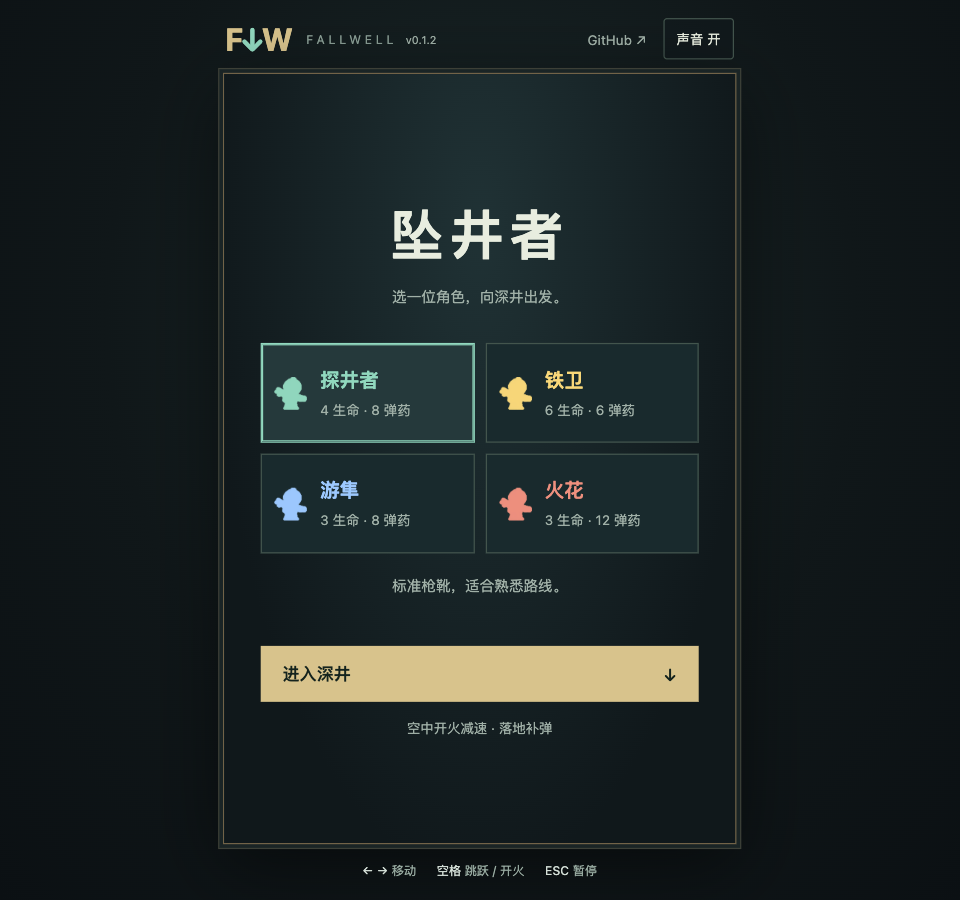
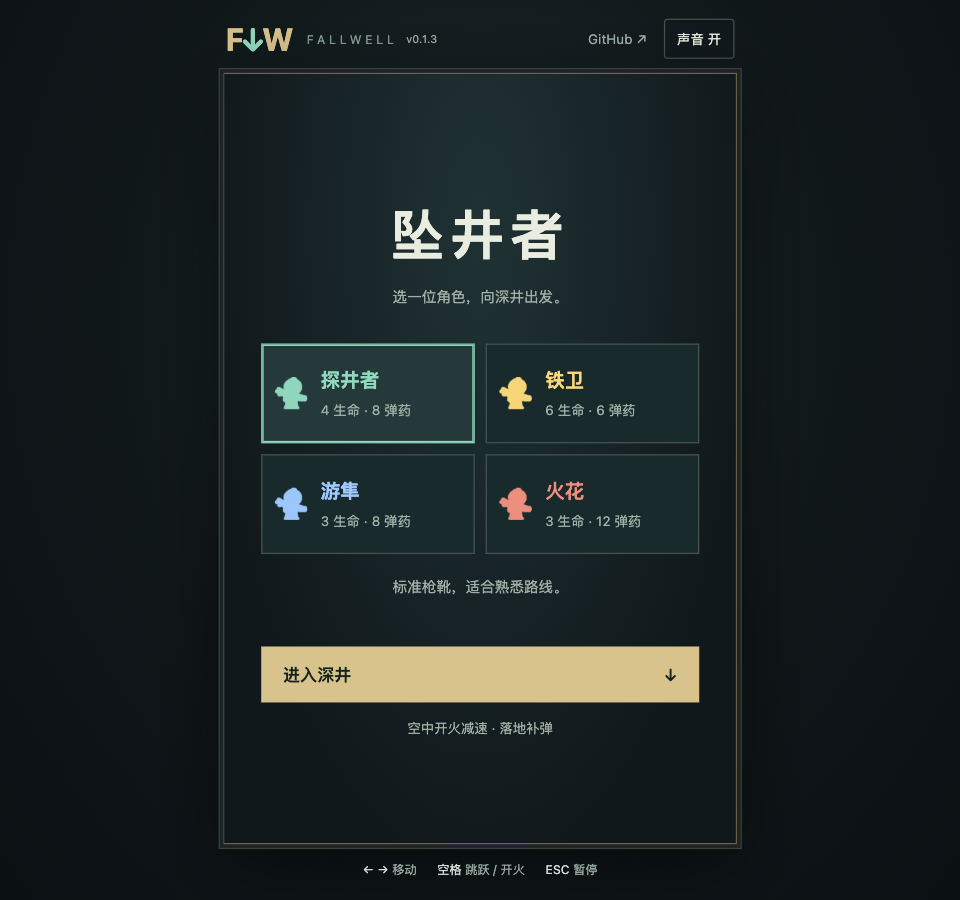
fix: restore canonical Fallwell subdomain and root-path build

diff --git a/vite.config.ts b/vite.config.ts
@@ -5,6 +5,6 @@ const { version } = JSON.parse(
   readFileSync(new URL("./package.json", import.meta.url), "utf8"),
 );
 export default defineConfig({
-  base: "/fallwell/",
+  base: "/",
   define: { __APP_VERSION__: JSON.stringify(`v${version}`) },
 });

diff --git a/PUBLISHING_STATUS.md b/PUBLISHING_STATUS.md
@@ -1,34 +1,32 @@
 # 已发布项目检查补齐 · 2026-10-02
 
-## 已完成并验证
+## 正式地址
+
+唯一正式目标为 https://fallwell.xiaosang.cc/，游戏运行在根路径 /。
+2026-10-02 已撤销误配的 xiaosang.cc/fallwell 与 xiaosang.cc/fallwell/* 两条路由，API 回读确认删除；其他项目绑定未改动。
+Wrangler 配置、README、二维码、待发布作品集及 Profile 材料统一使用正式子域名，不再采用主域名子路径。
+
+## 当前阻碍
+
+- Cloudflare API 回读：xiaosang.cc 的 Workers Custom Domains 数量为 100，fallwell 无绑定；新增绑定被错误 100122 拒绝。
+- 公共 DNS over HTTPS 查询正式子域名返回 NXDOMAIN；系统 DNS 的代理 fake IP 不作为上线证据。
+- 同一子域名的 Worker Route 方案需要代理 DNS 记录；当前 Wrangler OAuth 的 DNS Records API 返回 403，无 DNS 写入权限。
+- Cloudflare 浏览器控制台未登录，正在等待用户完成登录，以继续配置同一正式子域名。
+- 正式地址尚未验证，GitHub Homepage 与作品集/Profile 发布保持待完成；不发布故障 Demo。
+
+## 已准备与独立完成项
 
 - GitHub：https://github.com/holynova/fallwell；公开仓库，唯一主分支 main。
-- 应用源码提交：8a0d25bf537a12a171d1f69654cb5d3d90175e54；应用版本 v0.1.1。
-- 复用既有 Cloudflare Worker：fallwell，账户 ef7863c4de93e71c3496f940c8ab4865。
-- 已上线并验证：https://fallwell.holy-nova.workers.dev/。
-- Cloudflare deployment：58945126-0572-4fe4-a293-63e594bfd9ca。
-- Cloudflare version：eae7c91d-b0b2-46a1-8c8b-7a6687739e1c。
-- 页面增加可见 v0.1.1、GitHub 源码入口和统一 Umami 脚本。
-- README 双语正文通过校验；截图为 960×900 的生产预览实机画面。
-- 二维码已独立解码确认指向 https://fallwell.xiaosang.cc/，该地址尚不可用。
-- 33 项游戏测试、生产构建、Wrangler dry-run 与版本校验通过。
-- 23 个线上产物均为 HTTP 200，哈希与本地 dist 一致。
+- 根路径修复版本 v0.1.3；保留可见版本、GitHub 源码入口与统一 Umami。
+- 33 项游戏逻辑测试、生产构建、Wrangler dry-run 和版本校验通过。
+- README 双语说明及截图文件检查通过，二维码独立解码确认为 https://fallwell.xiaosang.cc/。
+- 正式发布技能已增加强制子域名与根路径约束；额度、权限或 TLS 阻碍不得擅自改变正式地址，“继续”不代表同意换地址。
+- 既有 workers.dev 仅作为临时访问与修复验证地址，不替代正式 Demo：https://fallwell.holy-nova.workers.dev/。
 
-## 阻塞与待完成
+## 待发布材料
 
-- fallwell.xiaosang.cc 未创建：Cloudflare 错误 100122，xiaosang.cc 已达到每个 zone 100 个 Workers Custom Domains 的上限；API 回读确认数量为 100。
-- 同址 Worker Route 需要代理 DNS 记录；当前 OAuth 无法管理 DNS，DNS Records API 返回 403。
-- 正式 Demo 地址等待选择：xiaosang.cc/fallwell/；等待子域名配额；或明确授权把现有 workers.dev 地址作为作品集例外。
-- GitHub Homepage 尚未设置，README 中子域名标记为待验证。
-- 作品集 master 的 FALLWELL 条目与截图已准备，但尚未提交、推送或重新部署；线上仍为 90 个条目。
-- GitHub Profile main 的 FALLWELL 行与截图已准备，但尚未提交、推送。
+- 作品集：/Users/sym/Documents/Codex/2026-09-30/ga/work/publish-20261002/portfolio，唯一数据源 master。
+- Profile：/Users/sym/Documents/Codex/2026-09-30/ga/work/publish-20261002/profile，main。
 
-准备工作区：
-- 作品集：/Users/sym/Documents/Codex/2026-09-30/ga/work/publish-20261002/portfolio
-- Profile：/Users/sym/Documents/Codex/2026-09-30/ga/work/publish-20261002/profile
-
-## 继续发布
-
-确认正式地址后，按所选地址调整 Wrangler/链接/二维码，验证项目 HTTPS 与核心功能；设置 GitHub Homepage；提交作品集 master，并单独手动部署 xiaosang-portfolio，再回读 repos.json 与卡片；提交 Profile main 并验证。
-
-仅更新 README、截图或发布记录时不重新部署游戏。没有新增 Cloudflare 自动部署工作流或发布分支；原作品集及 Profile checkout 的修改均被保留。
+正式子域名 HTTPS 与核心功能验证通过后，再设置 GitHub Homepage、提交推送作品集并独立手动部署 xiaosang-portfolio、回读 JSON 与卡片，然后发布 Profile。
+最终部署编号与线上验证结果记录在 DEPLOYMENT.md。

diff --git a/DEPLOYMENT.md b/DEPLOYMENT.md
@@ -1,23 +1,13 @@
-# 最新发布状态 · 2026-10-02
+# 发布 · 2026-10-02
 
-- 应用 v0.1.1 已从 main 提交 8a0d25bf537a12a171d1f69654cb5d3d90175e54 手动发布到既有 Worker fallwell。
-- 可用地址：https://fallwell.holy-nova.workers.dev/。
-- Version ID：eae7c91d-b0b2-46a1-8c8b-7a6687739e1c。
-- Deployment ID：58945126-0572-4fe4-a293-63e594bfd9ca。
-- 自定义域名绑定因 xiaosang.cc 达到 100 个配额上限失败（100122）；当前 route 配置保留为待完成目标，重跑部署仍会在域名绑定步骤报错。
-- 正式地址及作品集发布待确定，完整状态见 PUBLISHING_STATUS.md。
-
----
-
-# 发布
-
-- 公网地址：https://fallwell.holy-nova.workers.dev
-- Cloudflare Worker：fallwell
-- 版本：eb26b0dd-6c48-4a67-a90e-7a08973f9b2d
-- 发布日期：2026-10-01
-- 发布内容：Vite 生产构建目录 dist，静态资源托管，无后端服务。
-
-后续更新：运行 `npm test`，然后 `npm run deploy`。发布配置在 wrangler.jsonc，Wrangler 使用本机已有登录。
+- 正式地址：https://fallwell.xiaosang.cc/，绑定待完成，不能作为已上线地址。
+- 临时访问：https://fallwell.holy-nova.workers.dev/。
+- Worker：fallwell；项目唯一源码分支 main。
+- v0.1.3 已恢复根路径构建，移除 /fallwell/ 路径适配 Worker。
+- 误配的主域名两条路由已删除并回读验证。
+- Custom Domains 达到 100 个配额上限；同址 Worker Route 需要 DNS 写入权限，当前控制台待登录。
+- 发布配置 wrangler.jsonc 保留正式子域名目标；独立修复既有 Worker 时使用从此配置生成的临时无域名绑定配置，不改变正式地址。
+- 本次线上版本与源码 SHA 待修复部署后补录；完整检查状态见 PUBLISHING_STATUS.md。
 
 ## 2026-10-01 窗口适配与开局界面
 

diff --git a/README.md b/README.md
@@ -8,7 +8,7 @@ English: An original browser descent roguelite inspired by Downwell. Pick one of
 
 ## 在线体验 / Live Demo
 
-- [Cloudflare Demo](https://xiaosang.cc/fallwell/)（正式路径待验证 / Public path verification pending）
+- [Cloudflare Demo](https://fallwell.xiaosang.cc/)（域名绑定待完成 / Domain binding pending）
 - [GitHub Repo](https://github.com/holynova/fallwell)
 
 <img src="./assets/qr.png" width="180" alt="扫码访问 FALLWELL 在线体验">
@@ -42,6 +42,3 @@ Phaser · TypeScript · Vite · Cloudflare Workers Static Assets。
 Source and deployment configuration share main; deploy manually from the same commit.
 
 玩法、素材与验证记录见 DEVELOPMENT_PLAN.md、ART_DIRECTION.md、AUDIO_DIRECTION.md 和 ROGUELITE_REDESIGN.md。游戏平衡仍持续调校。
-
-使用独立 fallwell Worker 的 /fallwell/ 路由复用主域名，避免新增自定义域名配额。
-The independent fallwell Worker is mounted at /fallwell/ on the portfolio host.
